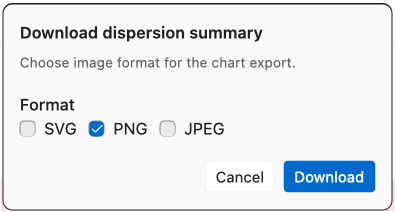
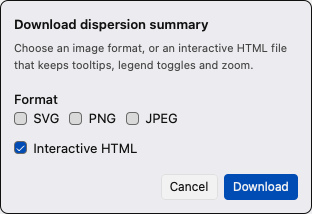
docs: sync Wordflow 0.7 docs from ldaca-wordflow v0.7 (903a42b3, release 0.7.10)
Chart download sections: Concordance dialog screenshot with Interactive HTML,
Trends image header wording, Topic Modelling scroll and Reset view.

Changed region(s): [[0.0, 0.0, 1.0, 1.0], [0.4904, 0.8491, 0.5192, 0.9057]]

diff --git a/tutorials/sequential-analysis.md b/tutorials/sequential-analysis.md
@@ -155,7 +155,7 @@ The setting is kept for the tab while the Project is open, like **Chart**, and i
 
 <h3 id="help-sequential-download">Download chart</h3>
 
-Click the download button (↓ icon) in the results header to export the chart. A dialog lets you choose SVG, PNG, JPEG or **Interactive HTML**. The exported file includes a header block with the Data Block name, time column, period, and row counts, plus a legend. When **Normalise to 100%** is on, the header also says the values are percentages of all rows in each period.
+Click the download button (↓ icon) in the results header to export the chart. A dialog lets you choose SVG, PNG, JPEG or **Interactive HTML**. An image download has a header with the Data Block name, time column, period and groups, plus a legend; long headers wrap onto a second line. When **Normalise to 100%** is on, the header also says the values are percentages of all rows in each period.
 
 **Interactive HTML** saves the chart as one web page that opens in any browser, offline: it shows the chart exactly as it is on screen (the same groups, selected periods, zoom and theme colours), and keeps its tooltips, a legend whose entries hide or show groups, and the zoom slider (hold Command on a Mac or Control on Windows while scrolling to zoom; plain scrolling moves the page). Its last line links to the Wordflow home page. It is a picture you can explore, not a copy of Wordflow: it cannot change the Period, stop words or groups, or add anything to a Project.
 

diff --git a/tutorials/concordance.md b/tutorials/concordance.md
@@ -233,8 +233,8 @@ terms while preserving selected bins.
 
 ![Plot download dialog](tutorials/assets/concordance/download_dialog.png)
 
-Download the current chart as PNG, SVG, JPEG or **Interactive HTML**. The image
-export includes the visible term series, complete legend with hidden-state
+Download the current chart as PNG, SVG, JPEG or **Interactive HTML**. An image
+download includes the visible term series, complete legend with hidden-state
 indication, and active bin and term-filter summary.
 
 **Interactive HTML** saves the chart as one web page that opens in any browser, offline: it shows the chart exactly as it is on screen (the same groups, selected bins, zoom and theme colours), and keeps its tooltips, a legend whose entries hide or show groups, and the zoom slider (hold Command on a Mac or Control on Windows while scrolling to zoom; plain scrolling moves the page). Its last line links to the Wordflow home page. It is a picture you can explore, not a copy of Wordflow: it cannot change the search or the terms, or add anything to a Project.

diff --git a/tutorials/topic-modeling.md b/tutorials/topic-modeling.md
@@ -325,7 +325,9 @@ selection rings and faded topics) and keeps three things to explore: hover a
 bubble for its words, sized by count, and the same size chips as the app
 (per colour-by value, or per Data Block); type in **Find topics** to highlight
 matching topics, with the same rules as the app's search; and drag to move, or
-hold Command (Mac) or Control (Windows) while scrolling to zoom. The last line
+hold Command (Mac) or Control (Windows) while scrolling to zoom. Once zoomed in,
+plain scrolling moves the graph in any direction; at full size it scrolls the
+page. **Reset view** returns to the whole graph. The last line
 links to the Wordflow home page. It cannot change the topics or
 add anything to a Project.
 
